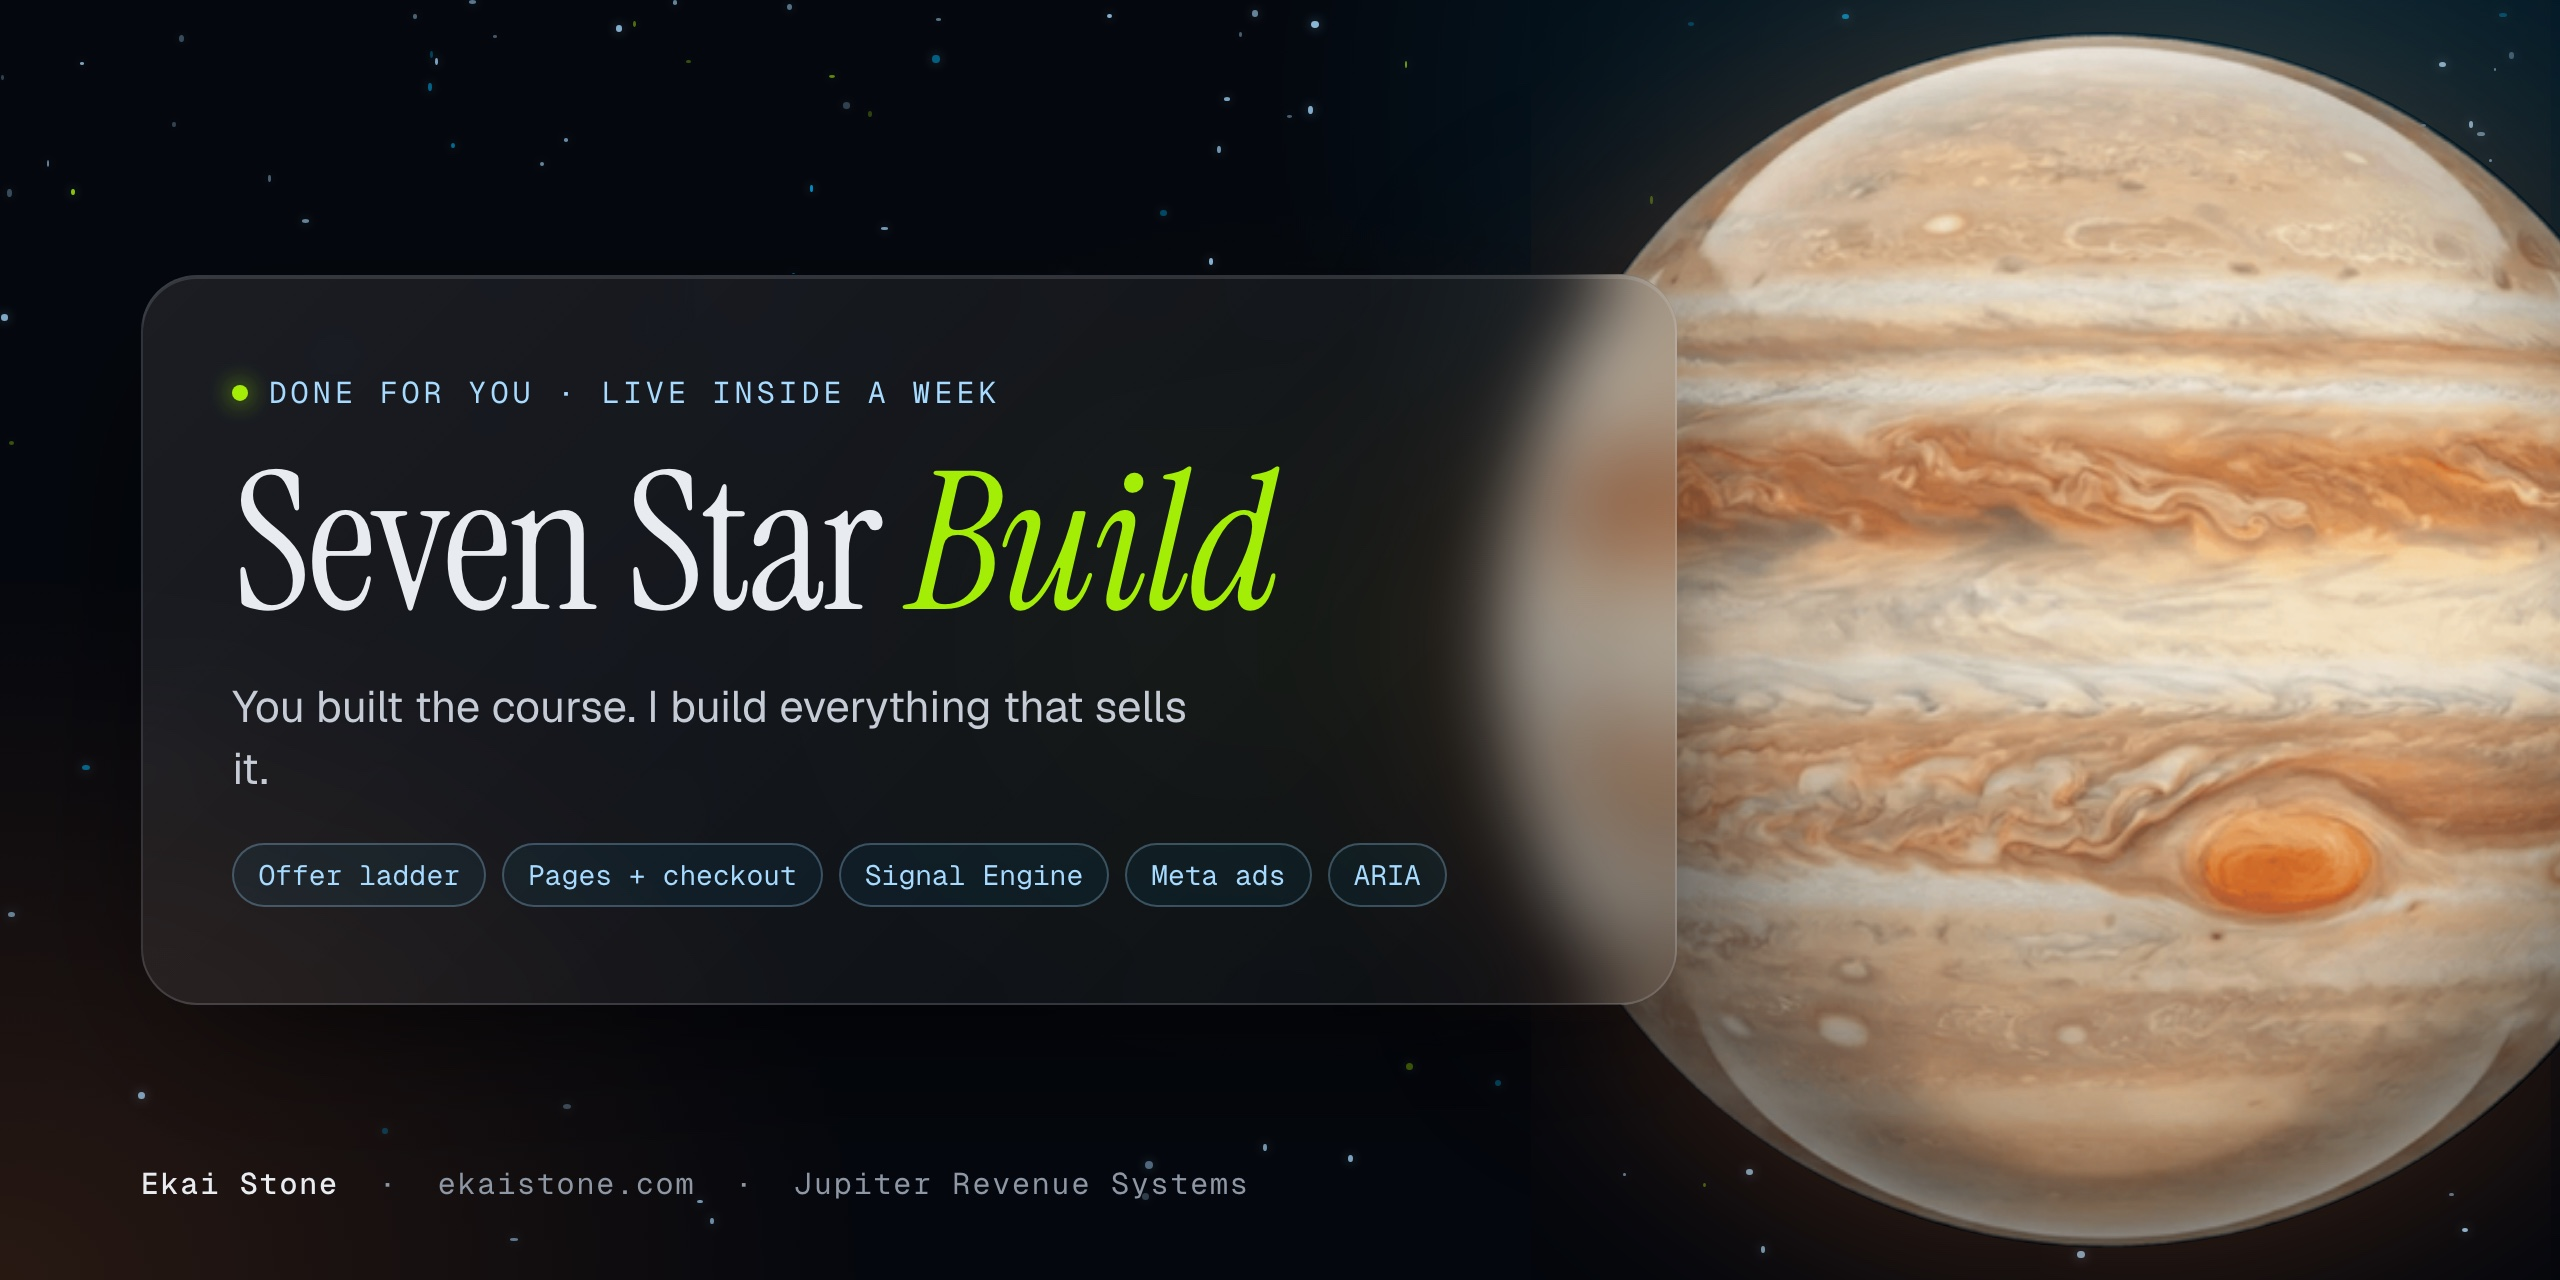
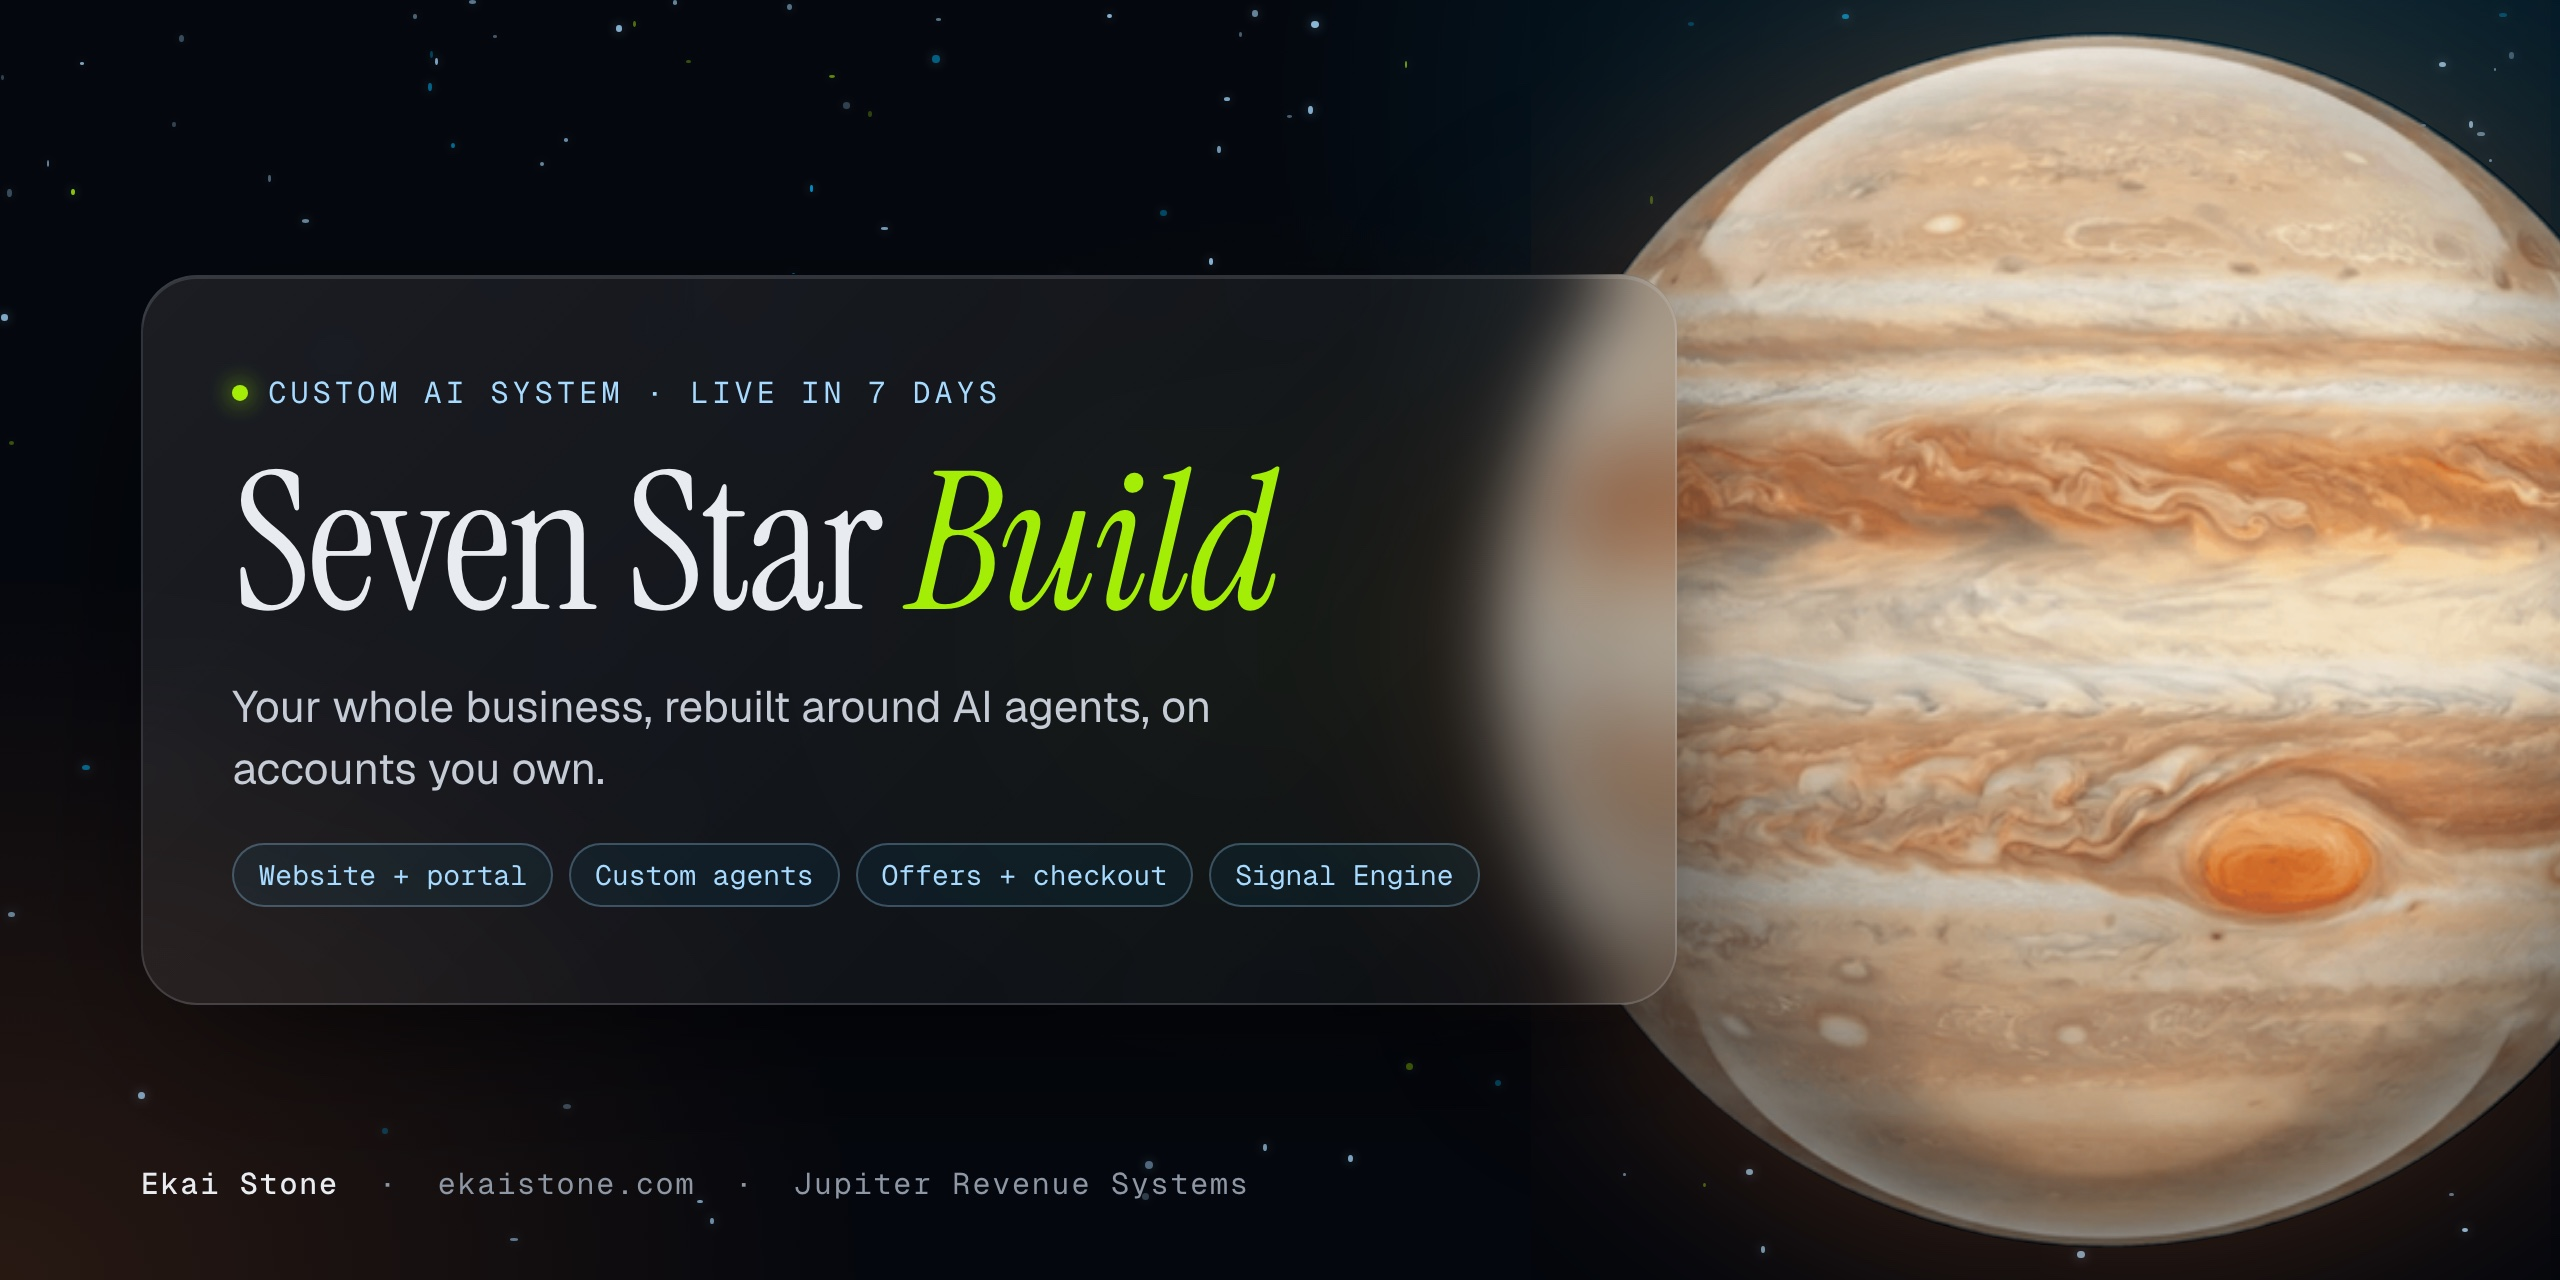
Seven Star Build: custom AI system for clinics, coaches, consultants, creators and agencies

diff --git a/README.md b/README.md
@@ -1,7 +1,7 @@
 <p align="center"><img src="assets/hero.jpg" alt="The Seven Star Build by Ekai Stone" width="100%"></p>
 
 <h1 align="center">The Seven Star Build</h1>
-<p align="center"><b>You built the course. I build everything that sells it.</b></p>
+<p align="center"><b>Your whole business, rebuilt around AI agents, on accounts you own.</b></p>
 
 <p align="center">
   <a href="https://ekaistone.com/seven-star/build"><img src="https://img.shields.io/badge/See_the_Build-ekaistone.com-A4ED07?style=for-the-badge&labelColor=04070D" alt="See the Build"></a>
@@ -11,27 +11,44 @@
 
 ---
 
-The ladder of offers around your course, the pages, the checkout, the webinar, the email, the tracking, the ads and the inbox. Built by my AI agents in one day, tested over three, live inside a week.
+A custom AI system, built by my AI agents for your business: your site, your client portal, agents that run your delivery, your offers and checkout, your email and CRM, your Meta ads with Signal Engine tracking, and the operations that keep it all running. Everything is installed on accounts you own. Live in 7 days.
+
+### Who it's for
+
+- **Telehealth clinics** running paid acquisition into consults
+- **Coaches and consultants** selling programs and services
+- **Creators** with courses and info products at low, mid and high ticket
+- **Agency owners** already doing $50K+ a month who deliver with a team
 
 ### What gets built
 
 | | |
 |---|---|
-| **Offer ladder** | Low, mid and high ticket around what you already sell |
-| **Website and sales pages** | A sales letter, not a brochure. One action per screen |
-| **Checkout and delivery** | Order bump and one time offer. The sale grants access automatically |
-| **Webinar** | Registration, reminders, show up flow, replay and the offer sequence |
-| **Email and SMS** | Buyer bridge, abandoned cart, webinar and nurture sequences in your voice |
-| **Signal Engine tracking** | Pixel and Conversions API with shared event IDs, UTMs into your CRM, purchases matched. [More](https://github.com/jupiter-revenue-systems/signal-engine) |
-| **Meta ads** | Campaign architecture, creative, copy, launch, then 30 days of tuning |
+| **Your website** | Your world in Framer: programs, products, resources, results, financing, about and blog, with a client login |
+| **Your client portal** | A personal portal for every buyer that shows what they own, their next step, and walks them through your delivery |
+| **Custom delivery agents** | AI agents built around how you deliver, such as intake and extraction, curriculum, design, slides and voice, and launch kits, delivered to the portal |
+| **Offer ladder and checkout** | Low, mid and high ticket offers with order bumps and one time offers. The sale grants access automatically |
+| **Email, SMS and CRM** | Buyer bridge, nurture, abandoned cart and follow up sequences in your voice |
+| **Meta ads + Signal Engine** | Campaigns, creative and copy, with Pixel and Conversions API on shared event IDs so Meta counts every sale once. [More](https://github.com/jupiter-revenue-systems/signal-engine) |
 | **Instagram Sales Agent** | Built on ARIA. Answers, qualifies and routes your leads. [More](https://github.com/jupiter-revenue-systems/instagram-sales-agent) |
+| **Operations core** | Support inbox to ticket to fix, quality checks on agent outputs, a handoff queue for your team, and client records in your own database |
+| **Training** | Live training calls, a short video for each agent and a written runbook |
+| **Settling in** | Fixes and adjustments through day 30 after go live |
 
-### Two ways in
+### How it runs
 
-- **The Seven Star Build**: done for you, $15,000 to $25,000 per build. [Explore the Build](https://ekaistone.com/seven-star/build)
+1. **Start.** Agreement signed, accounts opened in your name, access given.
+2. **Blueprint and build.** A 60 minute blueprint call, then my agents build the system.
+3. **Test.** Test buyers run every path, fixes go in, you review it in your own portal.
+4. **Live.** Your site and system go live on your accounts, with ads running into it. Live in 7 days.
+5. **Training and settling in.** Training calls, videos and runbook, with fixes through day 30.
+
+### Investment
+
+- **The Seven Star Build**: from $15,000. Pay in full and save 20%, or 3 monthly payments. [Explore the Build](https://ekaistone.com/seven-star/build)
 - **The Seven Star License**: for operators who deliver with a team, $25,000 to $50,000. [Explore the License](https://ekaistone.com/seven-star/license)
 
-> **Private repository.** The build system and its blueprint are private to Jupiter Revenue Systems clients. Your work product is yours on full payment, and your ad account and CRM stay in your name. [Book a Discovery Call ($150)](https://ekaistone.com/book/discovery) or [apply](https://ekaistone.com/seven-star/apply).
+> **Private repository.** Every build is custom and private to the client. Your work product is yours on full payment, and your accounts, data and CRM stay in your name. Jupiter keeps its frameworks, agents and the Signal Engine that run inside your build. [Book a Discovery Call ($150)](https://ekaistone.com/book/discovery) or [apply](https://ekaistone.com/seven-star/apply).
 
 ---
 
